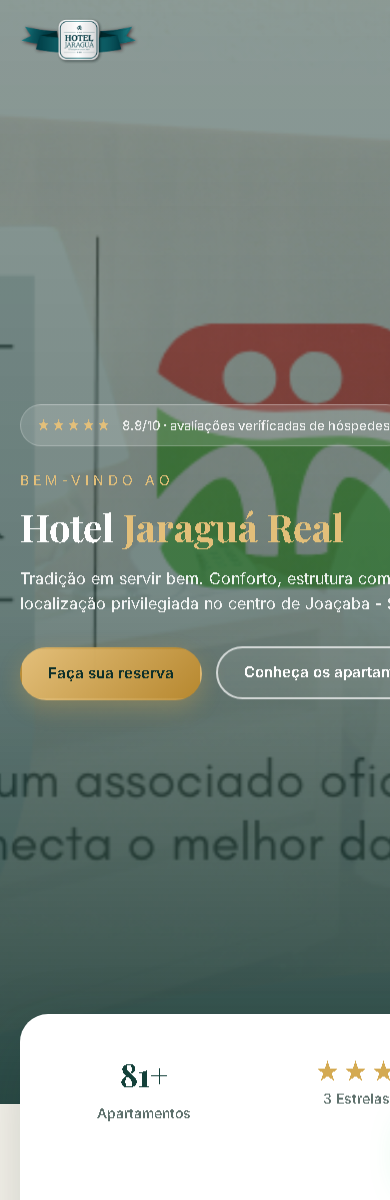
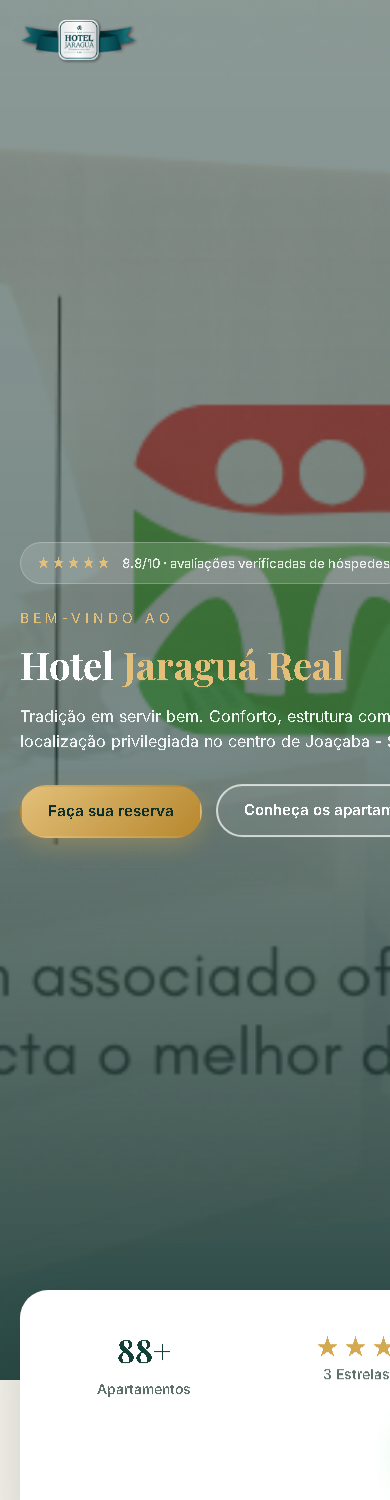
Adiciona seção Tecnologia & Performance para reforçar robustez e credibilidade

diff --git a/index.html b/index.html
@@ -27,6 +27,7 @@
                 <a href="#lazer" class="navbar__link">Lazer</a>
                 <a href="#eventos" class="navbar__link">Eventos</a>
                 <a href="#gastronomia" class="navbar__link">Gastronomia</a>
+                <a href="#tecnologia" class="navbar__link">Tecnologia</a>
                 <a href="#produtos" class="navbar__link">Produtos</a>
                 <a href="#localizacao" class="navbar__link">Localização</a>
                 <a href="https://reservas.desbravador.com.br/hotel-app/hotel-jaragua" target="_blank" rel="noopener" class="btn btn--gold navbar__cta">Reservar</a>
@@ -260,6 +261,70 @@
                     <h3>Vale Presente</h3>
                     <p>Surpreenda com vales para café colonial e hospedagens.</p>
                 </div>
+            </div>
+        </div>
+    </section>
+
+    <!-- TECNOLOGIA -->
+    <section class="section tech" id="tecnologia">
+        <div class="container">
+            <div class="section-header" data-animate="fade-up">
+                <span class="section-tag">Tecnologia &amp; performance</span>
+                <h2 class="section-title">Construído com o que há de <span class="gradient-text">mais moderno</span></h2>
+                <p class="section-desc">Um site leve, rápido, seguro e pronto para crescer junto com o hotel.</p>
+            </div>
+            <div class="tech__grid">
+                <div class="tech__item" data-animate="fade-up" data-delay="0">
+                    <span class="tech__icon">&#128377;</span>
+                    <h3>HTML5 &amp; CSS3 Semântico</h3>
+                    <p>Estrutura padronizada e acessível, com design system próprio (variáveis, grid e layout fluido).</p>
+                </div>
+                <div class="tech__item" data-animate="fade-up" data-delay="60">
+                    <span class="tech__icon">&#128187;</span>
+                    <h3>JavaScript Moderno</h3>
+                    <p>Animações suaves, slider, contadores e microinterações — tudo leve, sem plugins pesados.</p>
+                </div>
+                <div class="tech__item" data-animate="fade-up" data-delay="120">
+                    <span class="tech__icon">&#128241;</span>
+                    <h3>100% Responsivo</h3>
+                    <p>Experiência perfeita no celular, tablet e computador — onde seu hóspede estiver.</p>
+                </div>
+                <div class="tech__item" data-animate="fade-up" data-delay="180">
+                    <span class="tech__icon">&#128269;</span>
+                    <h3>SEO Otimizado</h3>
+                    <p>Estrutura pensada para o Google: "hotel em Joaçaba", "hotel no centro de Joaçaba" e muito mais.</p>
+                </div>
+                <div class="tech__item" data-animate="fade-up" data-delay="240">
+                    <span class="tech__icon">&#9889;</span>
+                    <h3>Carregamento Rápido</h3>
+                    <p>Imagens otimizadas, código enxuto e técnicas de performance para abrir em segundos.</p>
+                </div>
+                <div class="tech__item" data-animate="fade-up" data-delay="300">
+                    <span class="tech__icon">&#128274;</span>
+                    <h3>HTTPS &amp; Armazenamento CDN</h3>
+                    <p>Site seguro com certificado digital e hospedado em rede global de distribuição (CDN).</p>
+                </div>
+                <div class="tech__item" data-animate="fade-up" data-delay="360">
+                    <span class="tech__icon">&#128172;</span>
+                    <h3>Integração WhatsApp</h3>
+                    <p>Botão de contato direto e instantâneo em todas as telas, inclusive via celular.</p>
+                </div>
+                <div class="tech__item" data-animate="fade-up" data-delay="420">
+                    <span class="tech__icon">&#127758;</span>
+                    <h3>Integração Google Maps</h3>
+                    <p>Hóspedes encontram o hotel com um clique — sem abrir aplicativo externo.</p>
+                </div>
+                <div class="tech__item" data-animate="fade-up" data-delay="480">
+                    <span class="tech__icon">&#128260;</span>
+                    <h3>Integração com Reservas</h3>
+                    <p>Seu sistema atual (Desbravador) integrado visualmente, mantendo o fluxo que você já conhece.</p>
+                </div>
+            </div>
+            <div class="tech__footer" data-animate="fade-up">
+                <span class="tech__pill">Design system próprio</span>
+                <span class="tech__pill">Acessibilidade (a11y)</span>
+                <span class="tech__pill">Versão de teste em url pública</span>
+                <span class="tech__pill">Manutenção simples e rápida</span>
             </div>
         </div>
     </section>

diff --git a/src/css/style.css b/src/css/style.css
@@ -581,6 +581,62 @@ ul { list-style: none; }
 .produtos__card h3 { font-family: var(--font-serif); font-size: 1.3rem; color: var(--green-950); margin-bottom: 10px; }
 .produtos__card p { color: var(--ink-soft); font-size: 0.92rem; }
 
+/* ============ TECH ============ */
+.tech { background: var(--white); }
+.tech__grid {
+    display: grid;
+    grid-template-columns: repeat(3, 1fr);
+    gap: 24px;
+}
+.tech__item {
+    background: var(--cream);
+    border: 1px solid var(--border);
+    border-radius: var(--radius);
+    padding: 30px 26px;
+    transition: transform 0.4s var(--ease), box-shadow 0.4s, border-color 0.3s;
+}
+.tech__item:hover {
+    transform: translateY(-6px);
+    box-shadow: var(--shadow-md);
+    border-color: var(--gold-400);
+}
+.tech__icon {
+    display: inline-grid;
+    place-items: center;
+    width: 52px; height: 52px;
+    border-radius: 14px;
+    background: linear-gradient(135deg, var(--gold-400), var(--gold-600));
+    color: var(--green-950);
+    font-size: 1.5rem;
+    margin-bottom: 16px;
+    box-shadow: 0 8px 20px rgba(212, 169, 79, 0.3);
+}
+.tech__item h3 {
+    font-family: var(--font-serif);
+    font-size: 1.15rem;
+    color: var(--green-950);
+    margin-bottom: 8px;
+}
+.tech__item p { color: var(--ink-soft); font-size: 0.9rem; }
+.tech__footer {
+    display: flex;
+    flex-wrap: wrap;
+    gap: 12px;
+    justify-content: center;
+    margin-top: 40px;
+}
+.tech__pill {
+    font-size: 0.82rem;
+    font-weight: 600;
+    color: var(--green-900);
+    background: rgba(18, 63, 56, 0.07);
+    border: 1px solid var(--border);
+    padding: 9px 18px;
+    border-radius: 100px;
+    transition: background 0.2s, transform 0.2s var(--ease), border-color 0.2s;
+}
+.tech__pill:hover { background: rgba(212, 169, 79, 0.15); border-color: var(--gold-400); transform: translateY(-2px); }
+
 /* ============ MOCKUP NOTE ============ */
 .mockup-note {
     background: var(--green-950);
@@ -760,6 +816,7 @@ ul { list-style: none; }
     .sobre__inner, .lazer__grid, .eventos__grid, .gastronomia__grid { grid-template-columns: 1fr; gap: 40px; }
     .sobre__img--alt { right: 0; }
     .apartamentos__grid, .produtos__grid { grid-template-columns: 1fr 1fr; }
+    .tech__grid { grid-template-columns: 1fr 1fr; }
     .highlights__grid { grid-template-columns: repeat(2, 1fr); }
     .localizacao__card { grid-template-columns: 1fr; }
     .footer__grid { grid-template-columns: 1fr 1fr; }
@@ -788,7 +845,7 @@ ul { list-style: none; }
     .section { padding: 80px 0; }
     .sobre__media { padding-bottom: 40px; }
     .sobre__badge { left: 0; }
-    .apartamentos__grid, .produtos__grid, .lazer__items { grid-template-columns: 1fr; }
+    .apartamentos__grid, .produtos__grid, .lazer__items, .tech__grid { grid-template-columns: 1fr; }
     .highlights { margin-top: -90px; }
     .highlights__grid { padding: 24px; gap: 14px; }
     .highlights__num { font-size: 2rem; }
